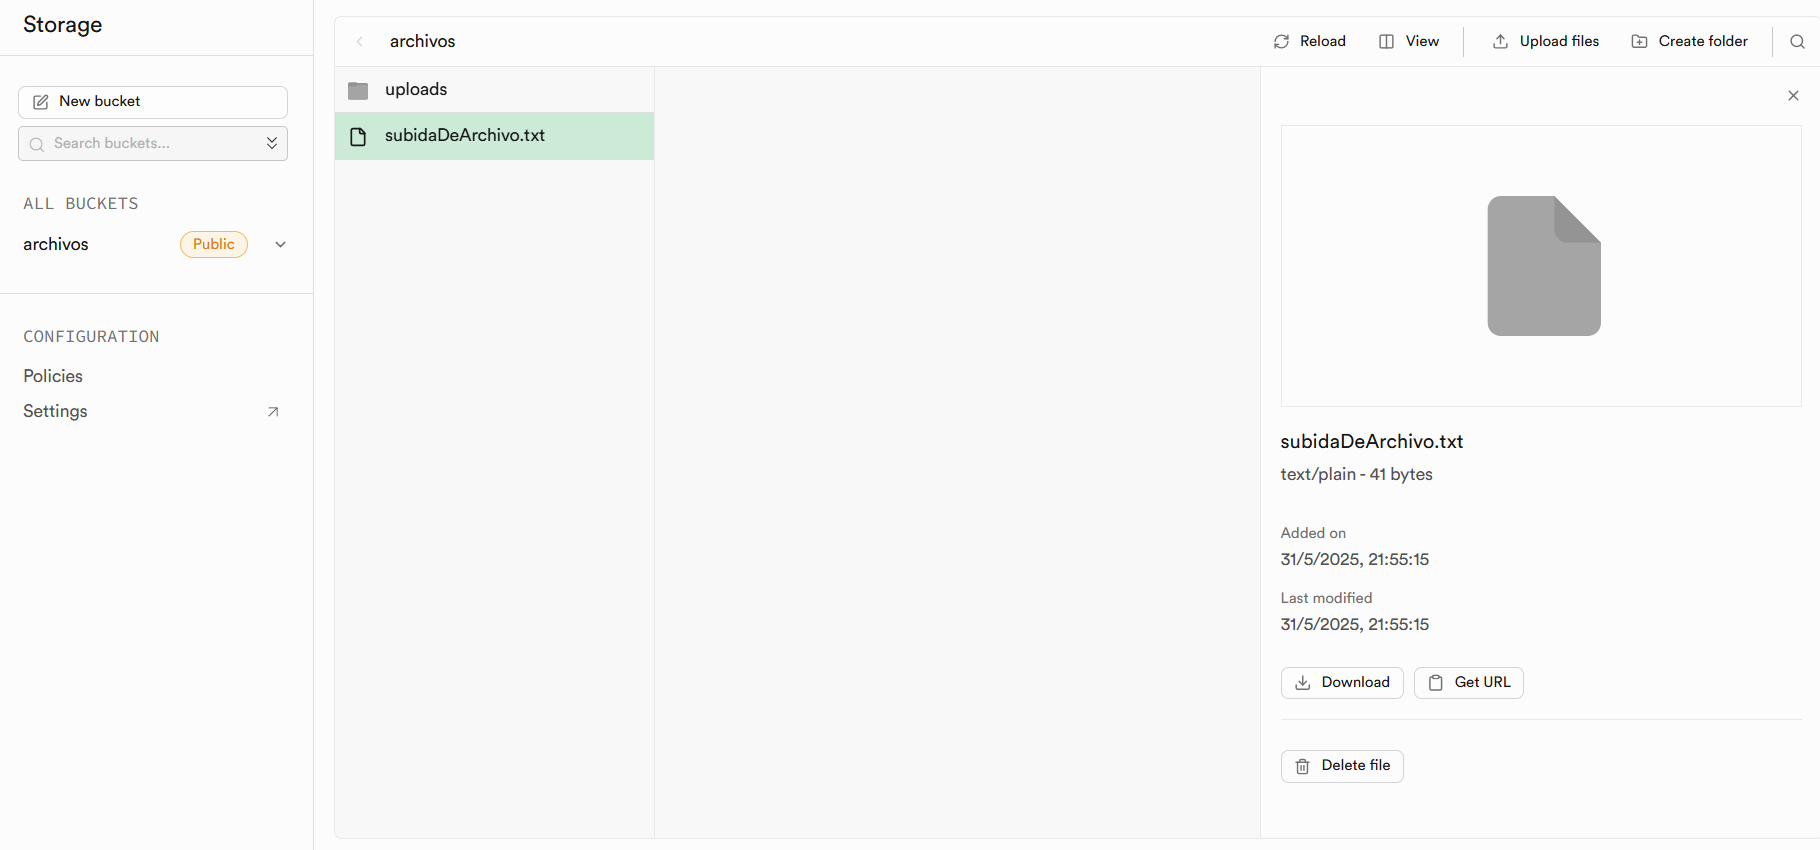
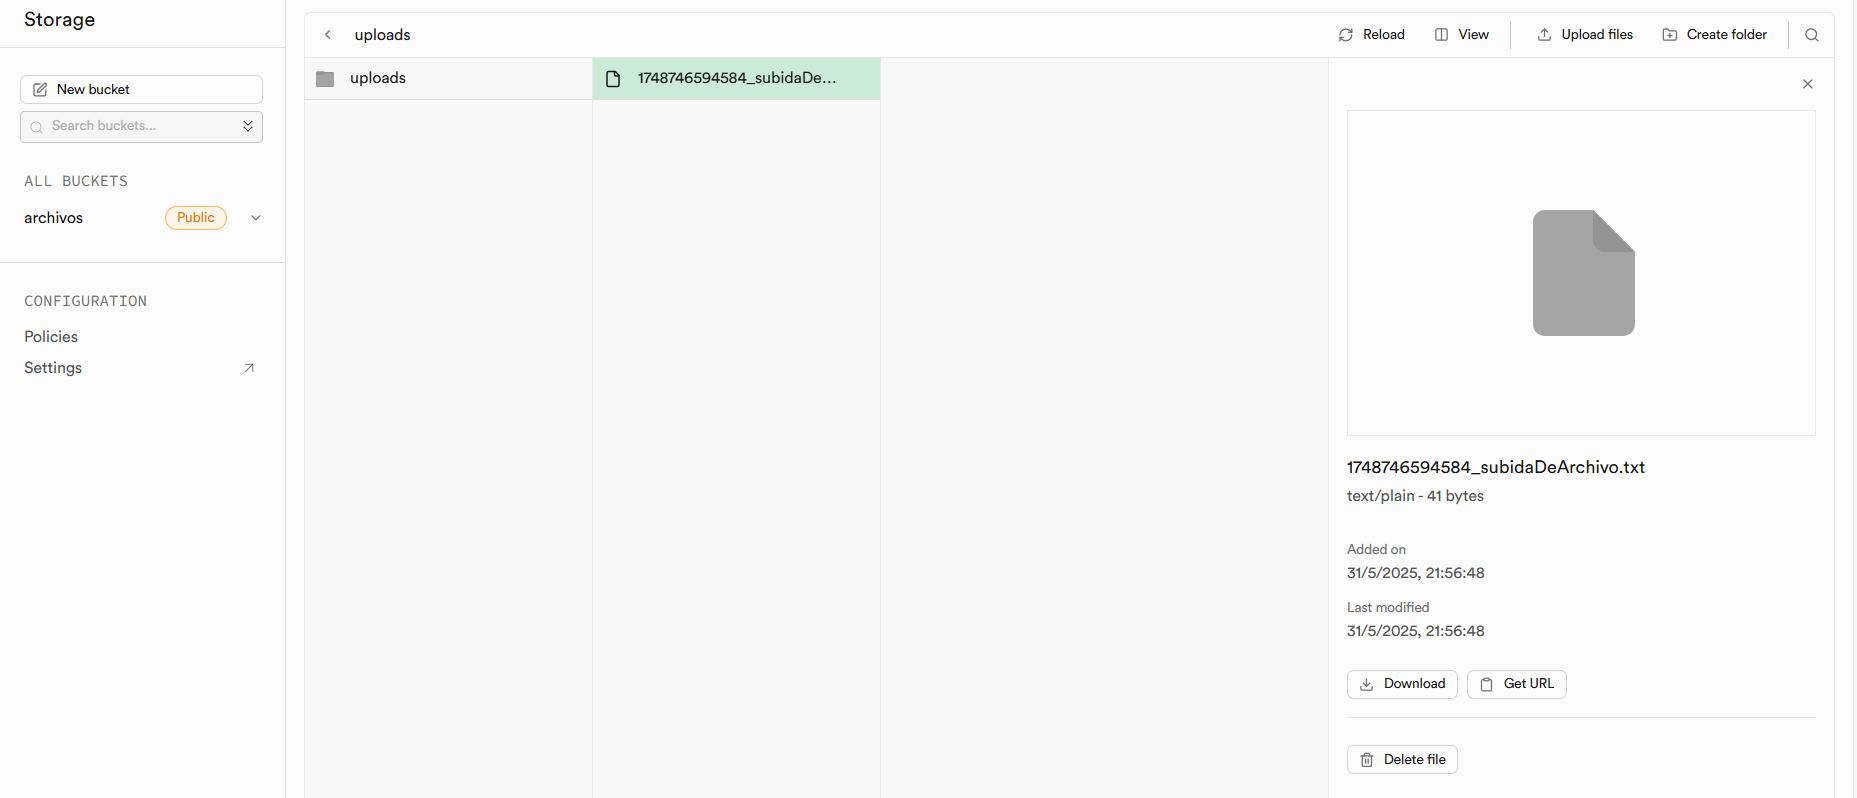
Readme 100%

diff --git a/README.md b/README.md
@@ -1,4 +1,4 @@
-# Supabase-Upload-IONIC
+# Supabase storage - Nicolás Luna & Angel Maldonado
 
 Este proyecto es una aplicación móvil desarrollada con **Ionic** y **Angular**, que permite subir archivos a una base de datos de Supabase.
 
@@ -62,3 +62,7 @@ El desarrollador debe crear un bucket en el Storage de Supabase llamado "archivo
 **4. Revisión en Supabase**
 
 ![_](./src/assets/4%20supabase%20confirmacion.png)
+
+**5. Más archivos subidos al storage**
+
+![_](./src/assets/supabase%20archivos.png)
